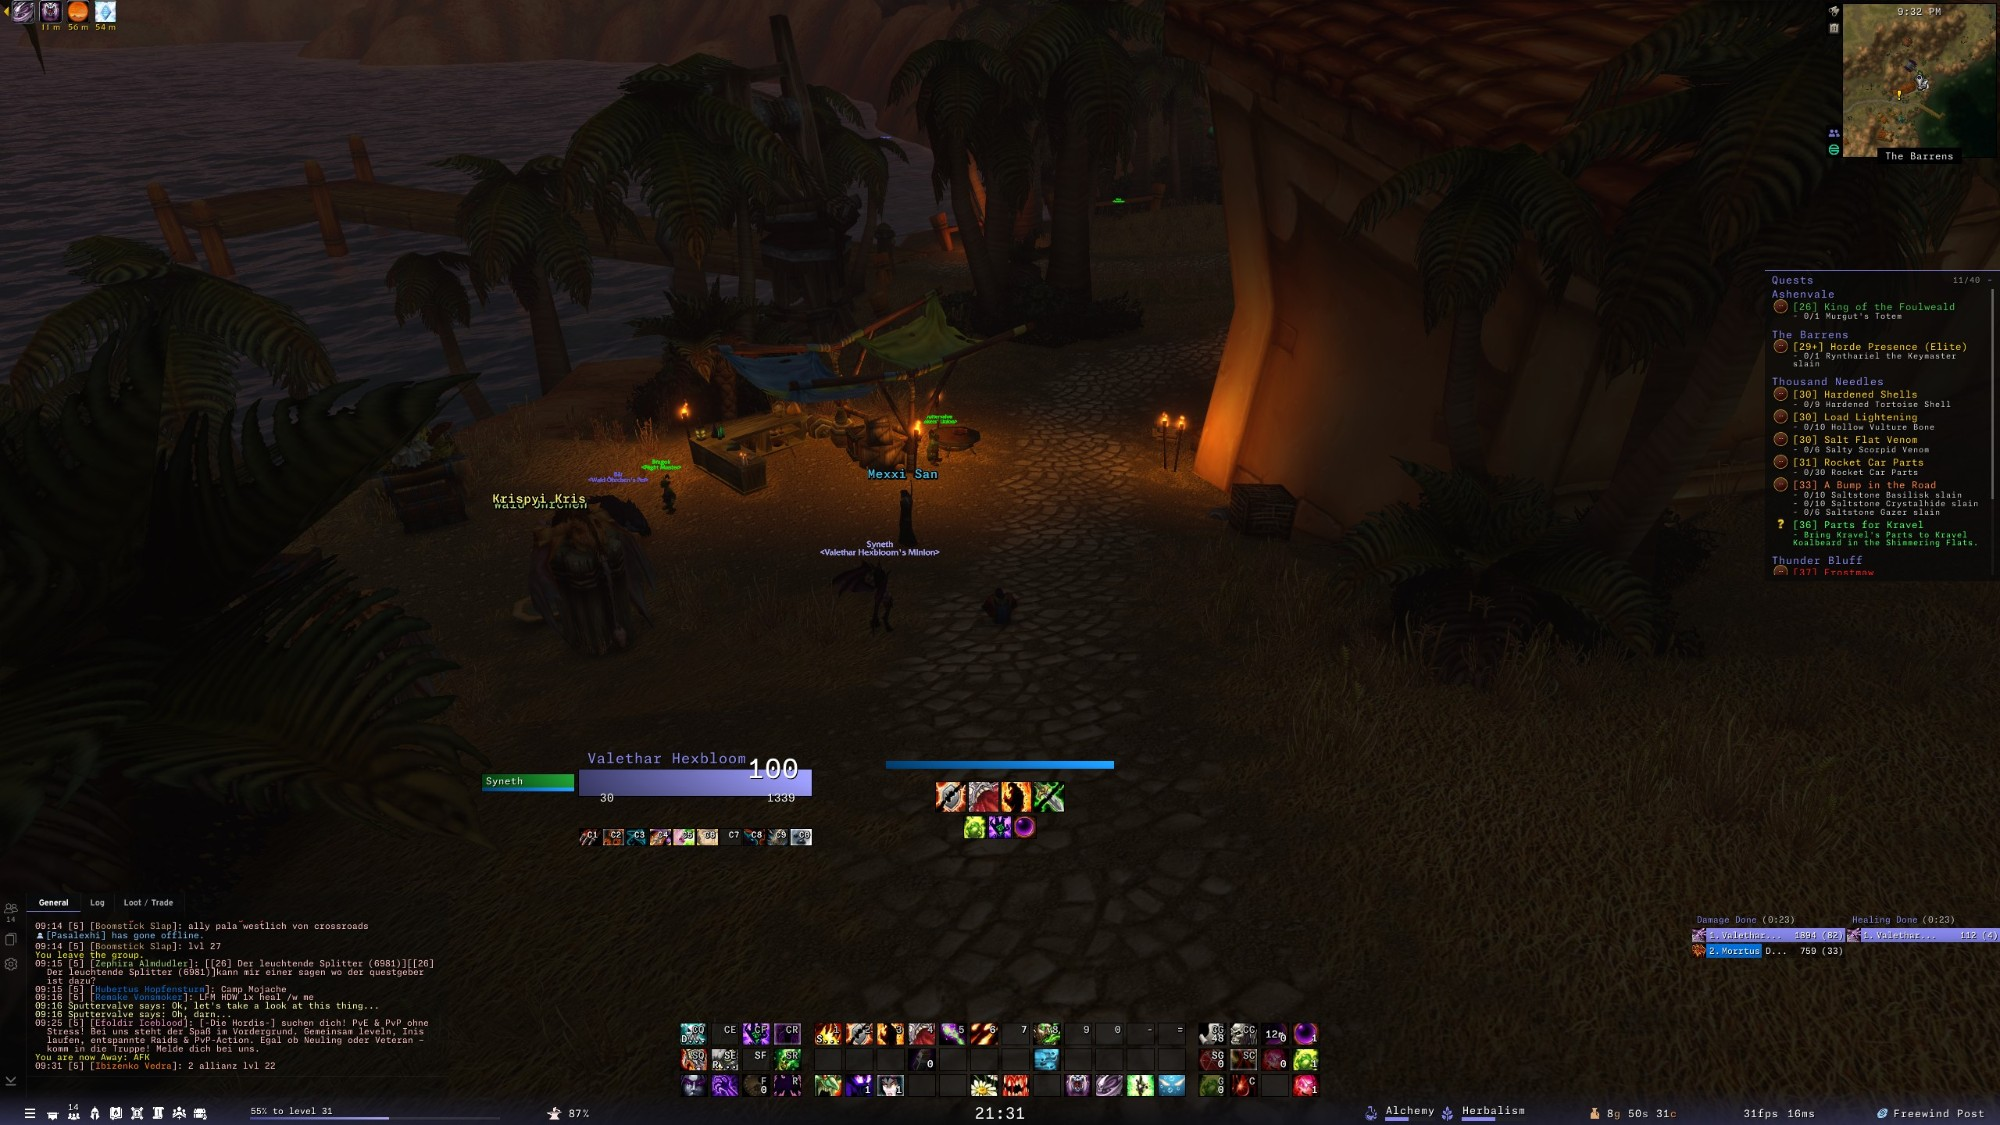
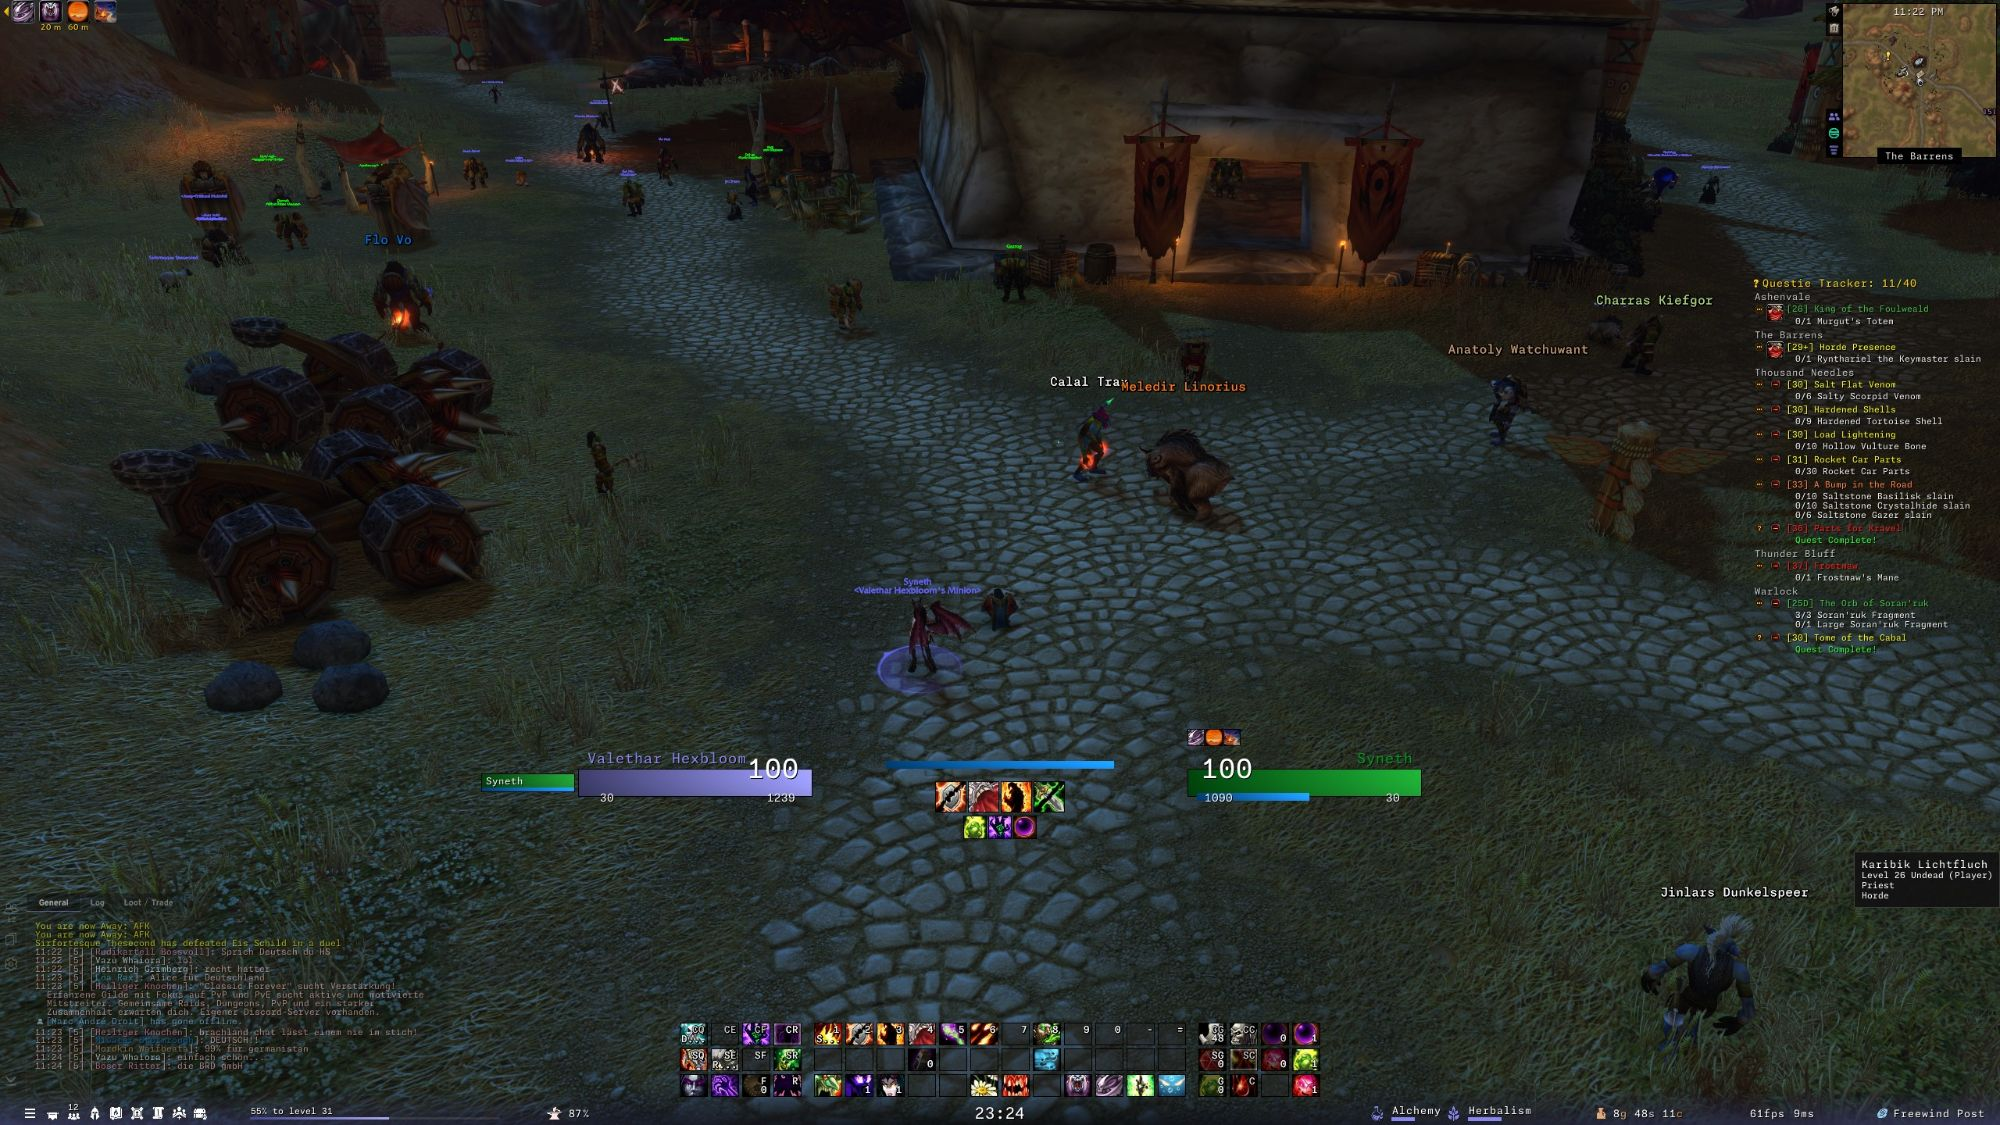
feat: update screenshots and make name above unitframes smaller

diff --git a/README.md b/README.md
@@ -14,6 +14,13 @@
 
 ![Aritlok UI in game](Assets/gameplay.jpg)
 
+<details>
+<summary>The layout, shown in EllesmereUI's unlock mode</summary>
+
+![Aritlok UI layout](Assets/layout.jpg)
+
+</details>
+
 ## Features
 
 - **Gradient unit frames** – class-colored bars that run from a deep left end to a bright right end, on health, power and cast bars

diff --git a/CHANGELOG.md b/CHANGELOG.md
@@ -1,5 +1,9 @@
 # Changelog
 
+## 0.1.1
+
+- Smaller name text on the player and target frames, so a long name no longer runs into the health percentage. Run `/aui install` again to apply it.
+
 ## 0.1.0
 
 First release.
